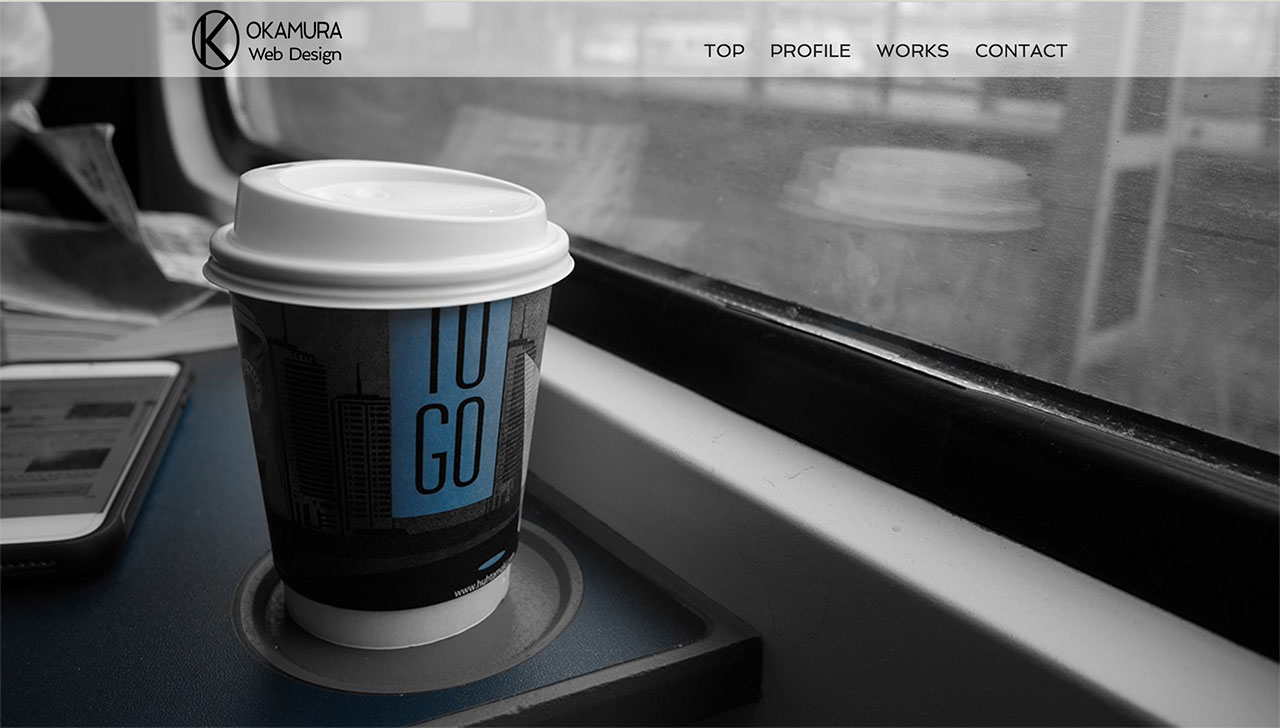
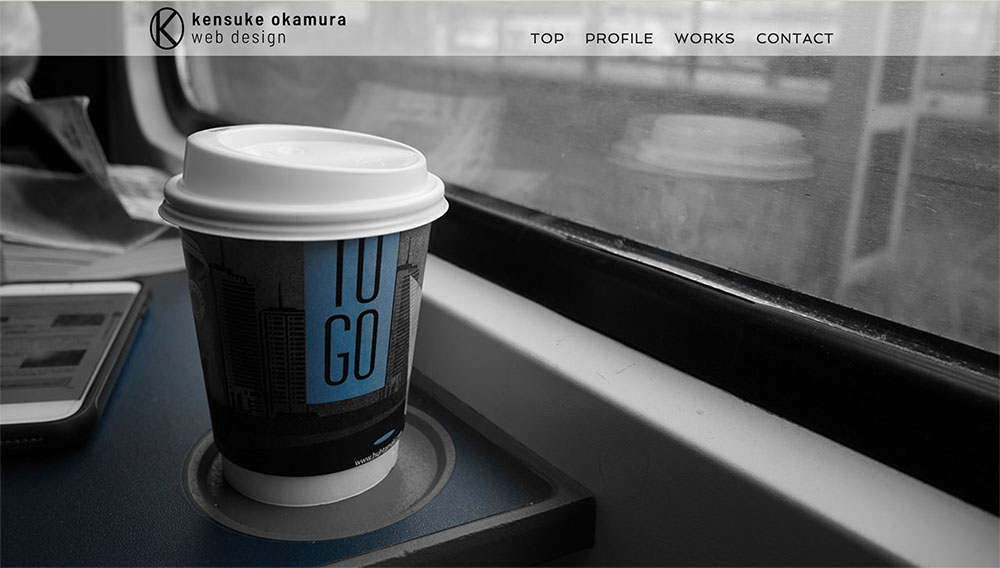
ロゴの差し替え、profile文言修正、works写真追加

Changed region(s): [[0.0, 0.0, 1.0, 0.1197]]

diff --git a/index.html b/index.html
@@ -33,7 +33,7 @@
         <div class="menu_wrapper">
             <div class="menu_container">
                 <div>
-                    <img src="images/logo.png" srcset="images/logo@2x.png 2x" alt="">
+                    <img src="images/new_logo.png" srcset="images/new_logo@2x.png 2x" alt="">
                 </div>
                 <div class="pc_menu">
                     <ul>
@@ -49,7 +49,7 @@
     
     <div id="sp_cover">
         <div class="container">
-            <div><img src="images/logo.png" srcset="images/logo@2x.png 2x" alt=""></div>
+            <div><img src="images/new_logo.png" srcset="images/new_logo@2x.png 2x" alt=""></div>
             <div class="sp_menu">
                 <div class="sp_menu_icon"></div>
                 <ul class="sp_menu_toggle">
@@ -81,20 +81,20 @@
                         <h4>Kensuke OKAMURA</h4>
                     </div>
                     <p>
-                        1988年、東京生まれ埼玉育ち。大学ではドイツ語を専攻、さらに大学院へ進学し「ソルブ語」と呼ばれるドイツの少数言語について研究する。大学院修了後、高校のドイツ語教員として3年間働く。現在、ウェブ関係での転職を目指し、勉強中。将来的にはドイツで仕事をしたいと考えている。
+                        1988年、東京生まれ埼玉育ち。大学ではドイツ語を専攻、さらに大学院へ進学し「ソルブ語」というドイツの少数言語について研究する。大学院修了後、高校のドイツ語教員として3年間働く。現在、ウェブ関係での転職を目指し、TechAcademyにて勉強中。将来的にはドイツで仕事をしたいと考えている。
                     </p>
                 </div>
                 <div class="container_profile">
                     <div class="profile_title"><h5>趣味</h5></div>
-                    <div class="profile_content"><p>色々な言語を学ぶこと、筋トレ</p></div>
+                    <div class="profile_content"><p>色々な言語を学ぶこと、料理・おかし作り、筋トレ</p></div>
                 </div>
                 <div class="container_profile">
                     <div class="profile_title"><h5>言語</h5></div>
-                    <div class="profile_content"><p>日本語、ドイツ語、英語</p></div>
+                    <div class="profile_content"><p>日本語、ドイツ語、英語、ソルブ語など</p></div>
                 </div>
                 <div class="container_profile">
                     <div class="profile_title"><h5>スキル</h5></div>
-                    <div class="profile_content"><p>HTML/CSS、JavaScript、WordPress、Photoshop（いずれも勉強中）</p></div>
+                    <div class="profile_content"><p>HTML/CSS、SASS、JavaScript、jQuery、WordPress、Photoshop（いずれも勉強中）</p></div>
                 </div>
             </div>
         </div> 
@@ -111,6 +111,14 @@
                 <div>
                     <img src="images/work1.jpg" alt="">
                     <p>Portfolio Website (2017)</p>
+                </div>
+                <div>
+                    <img src="images/work0.png" alt="">
+                    <p>鋭意製作中。</p>
+                </div>
+                <div>
+                    <img src="images/work0.png" alt="">
+                    <p>鋭意製作中。</p>
                 </div>
             </div>
         </div>

diff --git a/css/style.scss b/css/style.scss
@@ -95,7 +95,7 @@ header {
                 margin: 0 auto;
                 
                 img {
-                    width: 150px;
+                    width: 250px;
                     margin-top: 8px;
                 }
                 
@@ -108,7 +108,7 @@ header {
                 
                     li {
                         display: inline-block;
-                        margin-top: 35px;
+                        margin-top: 32px;
                         margin-right: 20px;
                     }
                 }
@@ -148,6 +148,7 @@ main {
                 display: inline-block;
                 margin: 0;
                 margin-bottom: 20px;
+                letter-spacing: 0.4rem;
                 @include fontsize(16);
             }
             
@@ -346,22 +347,21 @@ header {
             img {
                 margin-top: 10px;
                 margin-left: 10px;
-                width: 150px;
+                width: 180px;
             }
         
             .sp_menu {
                 
                 .sp_menu_icon {
-                    width: 50px;
-                    height: 50px;
-                    margin-top: 15px;
-                    margin-right: 10px;
+                    width: 45px;
+                    height: 45px;
+                    margin: 7px 7px 7px 0;
                     @include border-radius(50%);
                     background-color: $LightGray;
                     background-image: url(../images/menu_icon.png);
                     background-repeat: no-repeat;
                     background-position: center center;
-                    background-size: 25px 25px;
+                    background-size: 20px 20px;
                 }
             
                 ul {
@@ -369,7 +369,7 @@ header {
                     padding: 0;
                     width: 180px;
                     position: absolute;
-                    top: 70px;
+                    top: 55px;
                     right: 2%;
                     border: 1px solid $SubFontColor;
                     background: $BackgroundColor;

diff --git a/css/styel.css b/css/styel.css
@@ -78,7 +78,7 @@ header #pc_cover {
         margin: 0; }
         header #pc_cover .menu_wrapper .menu_container ul li {
           display: inline-block;
-          margin-top: 32px;
+          margin-top: 35px;
           margin-right: 20px; }
 header #sp_cover {
   display: none; }
@@ -99,7 +99,6 @@ main #profile .container {
     display: inline-block;
     margin: 0;
     margin-bottom: 20px;
-    letter-spacing: 0.4rem;
     font-size: 16px;
     font-size: 1.6rem; }
   main #profile .container h4 {
@@ -244,11 +243,12 @@ footer {
       header #sp_cover .container img {
         margin-top: 10px;
         margin-left: 10px;
-        width: 180px; }
+        width: 150px; }
       header #sp_cover .container .sp_menu .sp_menu_icon {
-        width: 45px;
-        height: 45px;
-        margin: 7px 7px 7px 0;
+        width: 50px;
+        height: 50px;
+        margin-top: 15px;
+        margin-right: 10px;
         -moz-border-radius: 50%;
         -webkit-border-radius: 50%;
         border-radius: 50%;
@@ -256,13 +256,13 @@ footer {
         background-image: url(../images/menu_icon.png);
         background-repeat: no-repeat;
         background-position: center center;
-        background-size: 20px 20px; }
+        background-size: 25px 25px; }
       header #sp_cover .container .sp_menu ul {
         margin: 0;
         padding: 0;
         width: 180px;
         position: absolute;
-        top: 55px;
+        top: 70px;
         right: 2%;
         border: 1px solid #766F6C;
         background: #FCFCFC;
@@ -340,4 +340,4 @@ footer {
     font-size: 10px;
     font-size: 1rem; } }
 
-/*# sourceMappingURL=style.css.map */
+/*# sourceMappingURL=styel.css.map */

diff --git a/js/portfolio.js b/js/portfolio.js
@@ -6,7 +6,6 @@ $(document).ready(function(){
             dots: false,
             items: 1,
             autoplay: true,
-            autoplayHoverPause: true
         }
     );
 });
